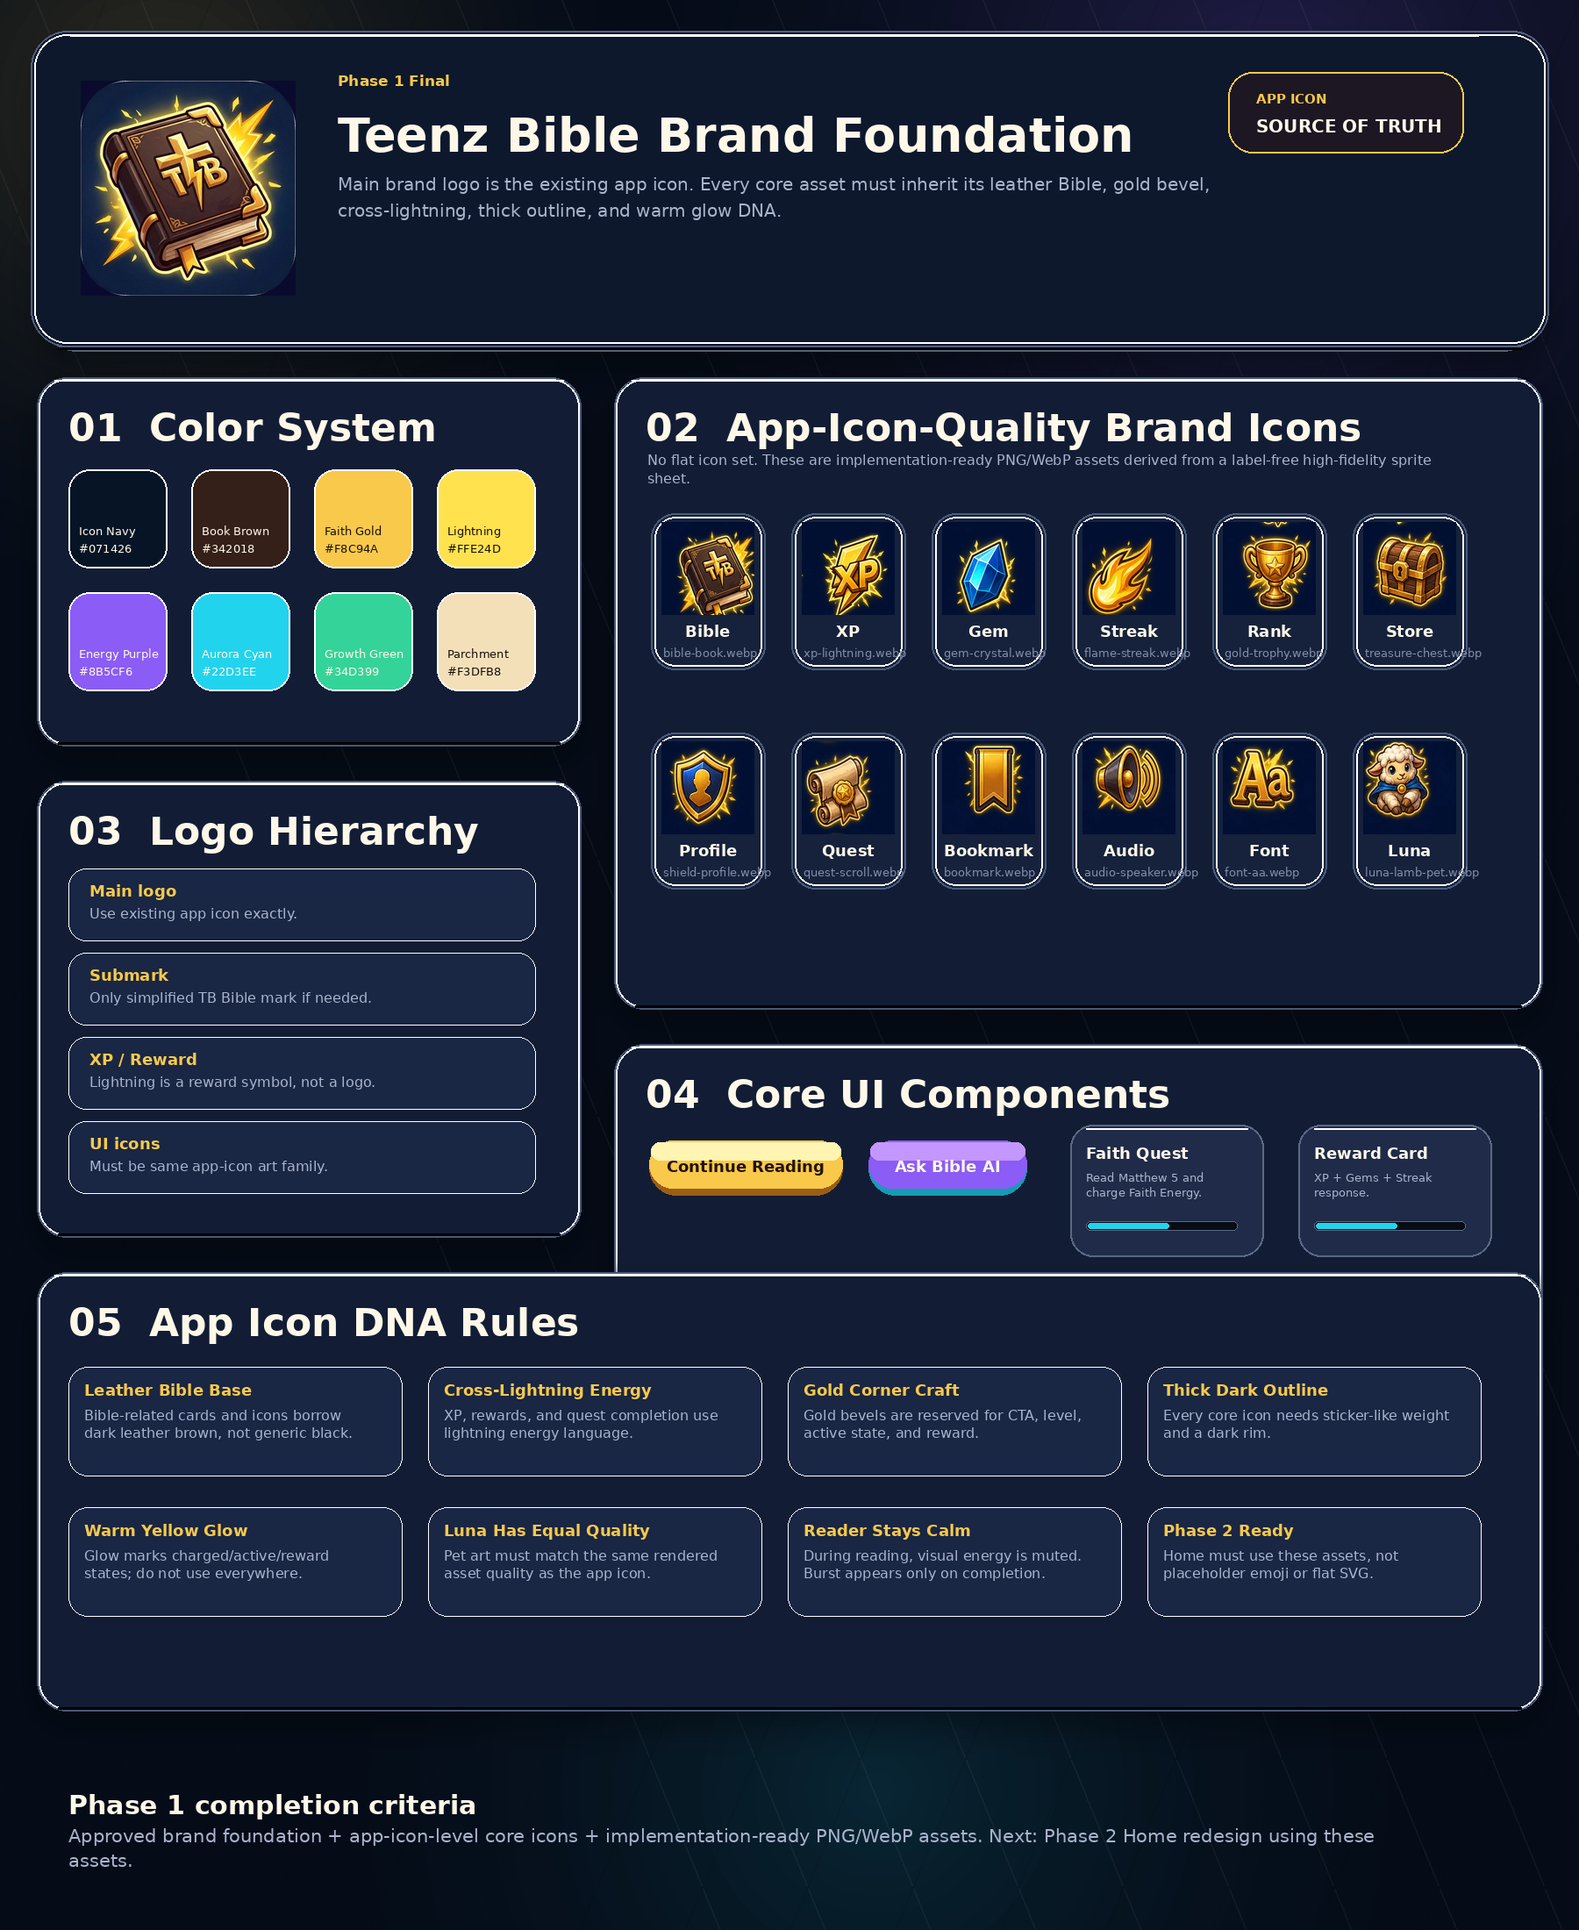
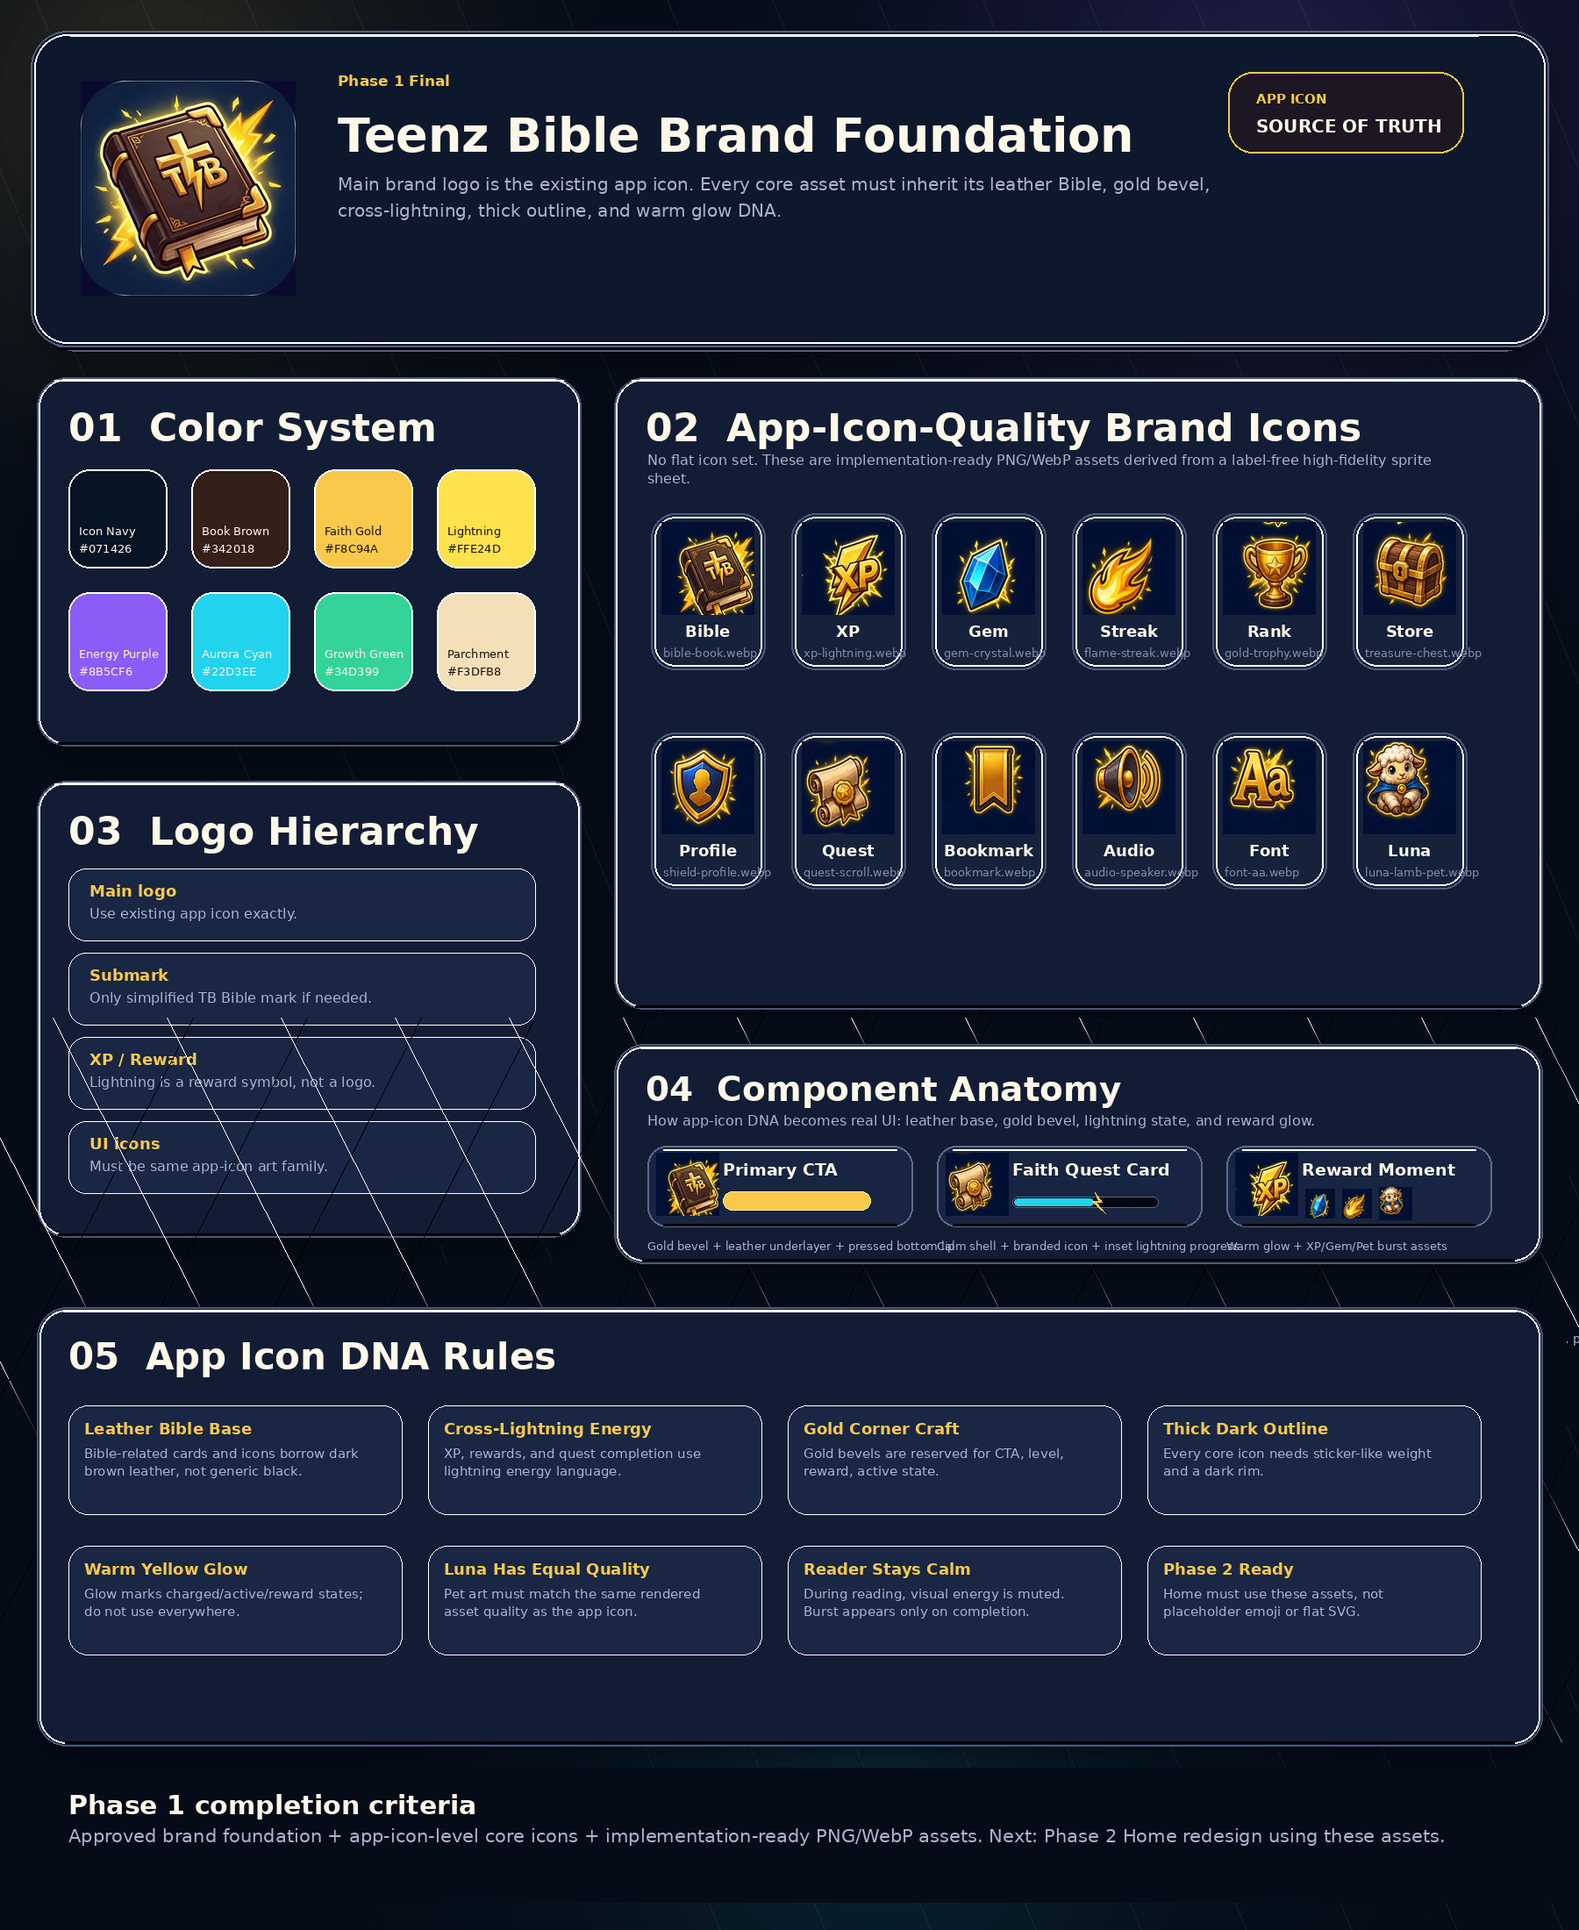
Replace Phase 1 core UI with component anatomy

diff --git a/design-mockups/phase-1-brand-foundation.html b/design-mockups/phase-1-brand-foundation.html
@@ -3,23 +3,50 @@
 <head>
   <meta charset="utf-8" />
   <meta name="viewport" content="width=device-width, initial-scale=1" />
-  <title>Teenz Bible Phase 1 — Brand Foundation Reset</title>
+  <title>Teenz Bible Phase 1 Brand Foundation</title>
   <style>
-    :root{--icon-navy:#071426;--book-ink:#1b1012;--book-leather:#4a2d22;--faith-gold:#f8c94a;--lightning:#ffe24d;--glow:rgba(255,226,77,.48);--purple:#8b5cf6;--cyan:#22d3ee;--green:#34d399;--parchment:#f3dfb8;--white:#fff8e8;--muted:#aab4d0;--line:rgba(255,255,255,.14);--panel:rgba(16,25,46,.74);--font:Inter,ui-sans-serif,system-ui,-apple-system,BlinkMacSystemFont,"Noto Sans KR",sans-serif;--shadow:0 26px 70px rgba(0,0,0,.42)}
-    *{box-sizing:border-box}body{margin:0;min-height:100vh;font-family:var(--font);color:var(--white);background:radial-gradient(circle at 16% 5%,rgba(255,226,77,.12),transparent 26rem),radial-gradient(circle at 86% 0%,rgba(139,92,246,.2),transparent 30rem),radial-gradient(circle at 50% 100%,rgba(34,211,238,.1),transparent 28rem),linear-gradient(135deg,#0f1d34,#050914 72%);padding:42px}svg{display:block}.wrap{max-width:1360px;margin:0 auto}.hero{display:grid;grid-template-columns:420px 1fr;gap:28px;align-items:stretch;margin-bottom:22px}.panel{position:relative;overflow:hidden;border-radius:34px;padding:28px;background:linear-gradient(180deg,rgba(255,255,255,.14),rgba(255,255,255,.055) 46%,rgba(0,0,0,.18)),var(--panel);border:1px solid var(--line);box-shadow:var(--shadow),inset 0 1px 0 rgba(255,255,255,.24),inset 0 -2px 0 rgba(0,0,0,.5);backdrop-filter:blur(24px)}.panel:before{content:"";position:absolute;inset:0;pointer-events:none;background:linear-gradient(135deg,rgba(255,255,255,.16),transparent 42%,rgba(0,0,0,.18));opacity:.7}.panel>*{position:relative;z-index:1}.badge{display:inline-flex;align-items:center;gap:8px;padding:8px 12px;border-radius:999px;background:rgba(248,201,74,.1);color:#ffeaa6;border:1px solid rgba(248,201,74,.24);font-size:12px;font-weight:900;text-transform:uppercase;letter-spacing:.1em}h1{margin:18px 0 0;font-size:55px;line-height:.94;letter-spacing:-.065em}h2{margin:0 0 16px;font-size:28px;letter-spacing:-.045em}h3{margin:0;font-size:18px;letter-spacing:-.03em}p{margin:12px 0 0;color:var(--muted);line-height:1.58}.gold{color:var(--faith-gold)}.source-icon{display:grid;place-items:center;min-height:420px;text-align:center}.source-icon img{width:310px;border-radius:58px;filter:drop-shadow(0 0 38px var(--glow)) drop-shadow(0 26px 30px rgba(0,0,0,.55))}.source-icon small{display:block;margin-top:18px;color:#d8c98c;font-weight:850}.grid{display:grid;grid-template-columns:repeat(12,1fr);gap:18px}.span-5{grid-column:span 5}.span-7{grid-column:span 7}.span-12{grid-column:span 12}.dna-grid{display:grid;grid-template-columns:repeat(3,1fr);gap:14px}.dna{min-height:128px;padding:16px;border-radius:24px;background:rgba(255,255,255,.055);border:1px solid rgba(255,255,255,.11);box-shadow:inset 0 1px 0 rgba(255,255,255,.16),0 12px 24px rgba(0,0,0,.18)}.dna b{display:block;color:#fff2be;margin-bottom:6px}.dna p{margin:0;font-size:13px}.palette{display:grid;grid-template-columns:repeat(4,1fr);gap:12px}.swatch{min-height:118px;border-radius:24px;padding:14px;display:flex;flex-direction:column;justify-content:end;border:1px solid rgba(255,255,255,.14);box-shadow:inset 0 1px 0 rgba(255,255,255,.2),inset 0 -2px 0 rgba(0,0,0,.35),0 14px 26px rgba(0,0,0,.2)}.swatch b{font-size:13px}.swatch small{color:rgba(255,255,255,.74);margin-top:4px;font-weight:750}.icon-grid{display:grid;grid-template-columns:repeat(6,1fr);gap:14px}.icon-card{min-height:136px;border-radius:26px;padding:12px;display:grid;place-items:center;text-align:center;background:linear-gradient(180deg,rgba(255,255,255,.14),rgba(255,255,255,.045) 48%,rgba(0,0,0,.17)),rgba(255,255,255,.045);border:1px solid rgba(255,255,255,.14);box-shadow:inset 0 1px 0 rgba(255,255,255,.24),inset 0 -2px 0 rgba(0,0,0,.48),0 10px 0 rgba(0,0,0,.2),0 20px 34px rgba(0,0,0,.22)}.icon-card svg{width:68px;height:68px;margin-bottom:8px;filter:drop-shadow(0 7px 10px rgba(0,0,0,.52)) drop-shadow(0 0 12px rgba(255,226,77,.2))}.icon-card small{color:var(--muted);font-weight:850}.component-row{display:grid;grid-template-columns:1fr 1fr 1fr;gap:16px;align-items:center}.btn{border:0;min-height:58px;border-radius:999px;padding:0 22px;color:#21120f;font-weight:950;background:radial-gradient(circle at 50% 0%,rgba(255,255,255,.85),transparent 44%),linear-gradient(180deg,#fff1aa,var(--faith-gold) 48%,#a46617);box-shadow:inset 0 2px 0 rgba(255,255,255,.78),inset 0 -5px 0 rgba(74,39,5,.44),0 8px 0 rgba(63,35,6,.62),0 20px 36px rgba(248,201,74,.2)}.btn.secondary{color:white;background:radial-gradient(circle at 50% 0%,rgba(255,255,255,.3),transparent 44%),linear-gradient(180deg,#a78bfa,#8b5cf6 50%,#1f9bb5);box-shadow:inset 0 2px 0 rgba(255,255,255,.34),inset 0 -5px 0 rgba(30,13,86,.48),0 8px 0 rgba(17,10,55,.68),0 20px 36px rgba(139,92,246,.2)}.sample-card{border-radius:28px;padding:18px;background:linear-gradient(180deg,rgba(255,255,255,.13),rgba(255,255,255,.045) 48%,rgba(0,0,0,.14)),rgba(255,255,255,.05);border:1px solid rgba(255,255,255,.14);box-shadow:inset 0 1px 0 rgba(255,255,255,.24),inset 0 -2px 0 rgba(0,0,0,.45),0 11px 0 rgba(0,0,0,.18),0 22px 36px rgba(0,0,0,.2)}.progress{height:12px;border-radius:999px;background:rgba(255,255,255,.08);border:1px solid rgba(255,255,255,.12);overflow:hidden;box-shadow:inset 0 2px 5px rgba(0,0,0,.55);margin-top:10px}.progress span{display:block;height:100%;width:66%;border-radius:inherit;background:linear-gradient(180deg,rgba(255,255,255,.7),transparent 45%),linear-gradient(90deg,var(--faith-gold),var(--purple),var(--cyan));box-shadow:0 0 18px rgba(248,201,74,.32)}.rules{display:grid;grid-template-columns:repeat(4,1fr);gap:14px}.rule{padding:16px;border-radius:20px;background:rgba(255,255,255,.055);border:1px solid rgba(255,255,255,.1)}.rule b{display:block;color:#fff2be;margin-bottom:6px}.rule p{margin:0;font-size:13px}
+    body {
+      margin: 0;
+      min-height: 100vh;
+      background: #050c18;
+      color: #fff8e8;
+      font-family: Inter, ui-sans-serif, system-ui, -apple-system, BlinkMacSystemFont, "Noto Sans KR", sans-serif;
+      padding: 24px;
+    }
+    main { max-width: 1200px; margin: 0 auto; }
+    img {
+      width: 100%;
+      height: auto;
+      display: block;
+      border-radius: 18px;
+      box-shadow: 0 24px 70px rgba(0,0,0,.45);
+    }
+    .links {
+      display: flex;
+      flex-wrap: wrap;
+      gap: 10px;
+      margin: 18px 0 0;
+    }
+    a {
+      color: #ffe24d;
+      text-decoration: none;
+      padding: 10px 12px;
+      border: 1px solid rgba(255,226,77,.24);
+      border-radius: 999px;
+      background: rgba(255,226,77,.08);
+      font-weight: 800;
+      font-size: 14px;
+    }
   </style>
 </head>
 <body>
-  <svg width="0" height="0" style="position:absolute">
-    <defs><linearGradient id="leather" x1="0" y1="0" x2="1" y2="1"><stop offset="0" stop-color="#7a5039"/><stop offset=".45" stop-color="#3b241d"/><stop offset="1" stop-color="#150b0c"/></linearGradient><linearGradient id="gold" x1="0" y1="0" x2="0" y2="1"><stop offset="0" stop-color="#fff4b2"/><stop offset=".28" stop-color="#f8c94a"/><stop offset=".62" stop-color="#b46f17"/><stop offset="1" stop-color="#5b3006"/></linearGradient><linearGradient id="goldLight" x1="0" y1="0" x2="1" y2="1"><stop offset="0" stop-color="#fff8cf"/><stop offset=".48" stop-color="#ffe24d"/><stop offset="1" stop-color="#c8750c"/></linearGradient><linearGradient id="cyan" x1="0" y1="0" x2="0" y2="1"><stop offset="0" stop-color="#e9fbff"/><stop offset=".42" stop-color="#22d3ee"/><stop offset="1" stop-color="#0b6f92"/></linearGradient><linearGradient id="fire" x1="0" y1="0" x2="0" y2="1"><stop offset="0" stop-color="#fff06a"/><stop offset=".38" stop-color="#ff8a1f"/><stop offset="1" stop-color="#b91c1c"/></linearGradient><filter id="shadow" x="-45%" y="-45%" width="190%" height="200%"><feDropShadow dx="0" dy="5" stdDeviation="2.2" flood-color="#000" flood-opacity=".62"/><feDropShadow dx="0" dy="0" stdDeviation="3.5" flood-color="#ffe24d" flood-opacity=".28"/></filter><filter id="glow" x="-60%" y="-60%" width="220%" height="220%"><feGaussianBlur stdDeviation="3" result="b"/><feColorMatrix in="b" type="matrix" values="1 0 0 0 1 0 1 0 0 .78 0 0 1 0 .12 0 0 0 .8 0"/><feMerge><feMergeNode/><feMergeNode in="SourceGraphic"/></feMerge></filter></defs>
-    <symbol id="book" viewBox="0 0 64 64"><g filter="url(#shadow)" stroke="#2a1209" stroke-width="3.2" stroke-linejoin="round" stroke-linecap="round"><path d="M12 13c10-5 21-1 21-1v40s-11-4-21 1z" fill="url(#leather)"/><path d="M33 12s11-4 21 1v40c-10-5-21-1-21-1z" fill="#1b1012"/><path d="M33 12v40" fill="none"/><path d="M45 10v19l-6-4.5-6 4.5V13c4-2 8-3 12-3z" fill="url(#gold)"/><path d="M17 19h11M17 26h9M40 19h8" stroke="#ffe89a" stroke-width="2.2"/><path d="M14 14c6-2 12-2 17 0" stroke="#fff1a8" stroke-width="1.5" opacity=".6"/></g></symbol>
-    <symbol id="bolt" viewBox="0 0 64 64"><g filter="url(#glow)" stroke="#5a3006" stroke-width="4.6" stroke-linejoin="round"><path d="M39 3 12 36h18l-6 25 29-37H36z" fill="url(#goldLight)"/><path d="M35 10 22 30h14l-5 19 14-21H33z" fill="#fff6ad" opacity=".5" stroke="none"/></g></symbol>
-    <symbol id="gem" viewBox="0 0 64 64"><g filter="url(#shadow)" stroke="#083247" stroke-width="3" stroke-linejoin="round"><path d="M15 10h34l11 18-28 29L4 28z" fill="url(#cyan)"/><path d="M15 10 32 57 49 10M4 28h56M23 10l-8 18 17 29 17-29-8-18" fill="none" stroke="#dffbff" stroke-width="2" opacity=".82"/><path d="M18 13h27" stroke="#fff" stroke-width="2" opacity=".55"/></g></symbol>
-    <symbol id="flame" viewBox="0 0 64 64"><g filter="url(#shadow)" stroke="#4c1d05" stroke-width="3.2" stroke-linejoin="round"><path d="M36 4c9 13-2 19 8 30 4 4 6 8 6 14 0 10-8 15-18 15s-18-6-18-16c0-11 10-17 15-28 3-6 3-10 7-15z" fill="url(#fire)"/><path d="M33 29c6 8-4 12 1 19 2 3 1 8-4 11-7-3-9-9-6-15 2-5 7-8 9-15z" fill="url(#goldLight)" stroke="#9a3412" stroke-width="2"/></g></symbol>
-    <symbol id="trophy" viewBox="0 0 64 64"><g filter="url(#shadow)" stroke="#5a3006" stroke-width="3.2" stroke-linejoin="round" stroke-linecap="round"><path d="M21 9h22v16c0 10-5 16-11 16s-11-6-11-16z" fill="url(#gold)"/><path d="M21 16H8c0 11 5 18 14 18M43 16h13c0 11-5 18-14 18" fill="none" stroke="#f8c94a" stroke-width="4.2"/><path d="M27 41h10v8h9v9H18v-9h9z" fill="url(#gold)"/><path d="M32 15l3 6 7 1-5 5 1 7-6-3-6 3 1-7-5-5 7-1z" fill="#fff4b2" stroke="#9a5a10" stroke-width="1.8"/></g></symbol>
-    <symbol id="chest" viewBox="0 0 64 64"><g filter="url(#shadow)" stroke="#2a1308" stroke-width="3.1" stroke-linejoin="round"><path d="M9 30c0-12 9-20 23-20s23 8 23 20v5H9z" fill="url(#leather)"/><path d="M8 31h48v25H8z" fill="#1b1012"/><path d="M8 34h48M27 11v45M37 11v45" stroke="url(#gold)" stroke-width="5.4"/><rect x="25" y="35" width="14" height="14" rx="3" fill="#8b5cf6" stroke="#ffe89a" stroke-width="2"/></g></symbol>
-    <symbol id="shield" viewBox="0 0 64 64"><g filter="url(#shadow)" stroke="#3a2108" stroke-width="3.2" stroke-linejoin="round"><path d="M32 5 54 14v18c0 14-9 23-22 28C19 55 10 46 10 32V14z" fill="url(#gold)"/><path d="M32 13 45 18v13c0 9-5 15-13 19-8-4-13-10-13-19V18z" fill="#103856" stroke="#ffe89a" stroke-width="2.3"/></g></symbol>
-  </svg>
-  <main class="wrap"><section class="hero"><div class="panel"><span class="badge">Phase 1 Brand Foundation</span><h1>Teenz Bible<br><span class="gold">Faith Energy</span> System</h1><p class="sub">Brand direction starts from the actual app icon: leather Bible, TB mark, cross-lightning, gold corners, thick dark outline, and warm yellow glow.</p></div><div class="panel source-icon"><img src="../client/public/art-assets/brand/teenz-bible-app-icon.png" alt="Teenz Bible app icon"/><small>Main brand logo stays exactly this app icon.</small></div></section><section class="grid"><div class="panel span-5"><h2>Color System</h2><div class="palette"><div class="swatch" style="background:#071426"><b>Icon Navy</b><small>#071426</small></div><div class="swatch" style="background:#342018"><b>Book Brown</b><small>#342018</small></div><div class="swatch" style="background:#f8c94a;color:#21120f"><b>Faith Gold</b><small>#F8C94A</small></div><div class="swatch" style="background:#ffe24d;color:#21120f"><b>Lightning</b><small>#FFE24D</small></div><div class="swatch" style="background:#8b5cf6"><b>Energy Purple</b><small>#8B5CF6</small></div><div class="swatch" style="background:#22d3ee;color:#061120"><b>Aurora Cyan</b><small>#22D3EE</small></div><div class="swatch" style="background:#34d399;color:#061120"><b>Growth Green</b><small>#34D399</small></div><div class="swatch" style="background:#f3dfb8;color:#21120f"><b>Parchment</b><small>#F3DFB8</small></div></div></div><div class="panel span-7"><h2>Brand Icon Set Direction</h2><div class="icon-grid"><div class="icon-card"><svg><use href="#book"/></svg><small>Bible</small></div><div class="icon-card"><svg><use href="#bolt"/></svg><small>XP</small></div><div class="icon-card"><svg><use href="#gem"/></svg><small>Gem</small></div><div class="icon-card"><svg><use href="#flame"/></svg><small>Streak</small></div><div class="icon-card"><svg><use href="#trophy"/></svg><small>Rank</small></div><div class="icon-card"><svg><use href="#chest"/></svg><small>Store</small></div><div class="icon-card"><svg><use href="#shield"/></svg><small>Profile</small></div><div class="icon-card"><svg><use href="#book"/></svg><small>Quest</small></div><div class="icon-card"><svg><use href="#bolt"/></svg><small>Reward</small></div><div class="icon-card"><svg><use href="#gem"/></svg><small>Currency</small></div><div class="icon-card"><svg><use href="#flame"/></svg><small>Habit</small></div><div class="icon-card"><svg><use href="#shield"/></svg><small>Safe</small></div></div></div><div class="panel span-12"><h2>App Icon DNA</h2><div class="dna-grid"><div class="dna"><b>Leather Bible base</b><p>Cards and Bible-related UI should borrow dark brown leather, not generic black panels.</p></div><div class="dna"><b>Cross-lightning energy</b><p>XP and reward moments use the lightning language. Do not use it as the main logo.</p></div><div class="dna"><b>Gold corner craft</b><p>Use gold bevels for important moments: CTA, level, reward, active state.</p></div><div class="dna"><b>Thick dark outline</b><p>Icons need sticker-like weight and a dark rim to match the app icon.</p></div><div class="dna"><b>Warm yellow glow</b><p>Glow is reserved for charged/active/reward states, not every surface.</p></div><div class="dna"><b>TB is sacred</b><p>Main logo remains the actual app icon. Submarks must never compete with it.</p></div></div></div><div class="panel span-12"><h2>Core UI Components</h2><div class="component-row"><div><button class="btn">Continue Reading</button><button class="btn secondary" style="margin-left:12px">Ask Bible AI</button></div><div class="sample-card"><h3>Today’s Faith Quest</h3><p>Read Matthew 5 and charge your Faith Energy.</p><div class="progress"><span></span></div></div><div class="sample-card"><h3>Faith Energy</h3><p>+50 XP · +5 Gems · Flame Streak protected.</p></div></div></div><div class="panel span-12"><h2>Rules to Close the Design Gap</h2><div class="rules"><div class="rule"><b>Main logo is fixed.</b><p>The app icon is the brand anchor. No replacement logo.</p></div><div class="rule"><b>Icons must inherit app-icon DNA.</b><p>Leather, gold bevel, thick outline, glow, sticker depth.</p></div><div class="rule"><b>Gold is reward, not wallpaper.</b><p>Use for CTA, rewards, active tabs, level moments.</p></div><div class="rule"><b>Reader stays calm.</b><p>Energy effects happen on completion, not while reading.</p></div></div></div></section></main>
+  <main>
+    <img src="./phase-1-brand-foundation.png" alt="Teenz Bible Phase 1 Brand Foundation board" />
+    <div class="links">
+      <a href="./phase-1-brand-icon-assets.png">Brand icon assets board</a>
+      <a href="./phase-1-brand-icon-sprite-no-labels.png">Label-free sprite sheet</a>
+      <a href="./phase-1-brand-foundation.md">Phase 1 notes</a>
+    </div>
+  </main>
 </body>
 </html>
